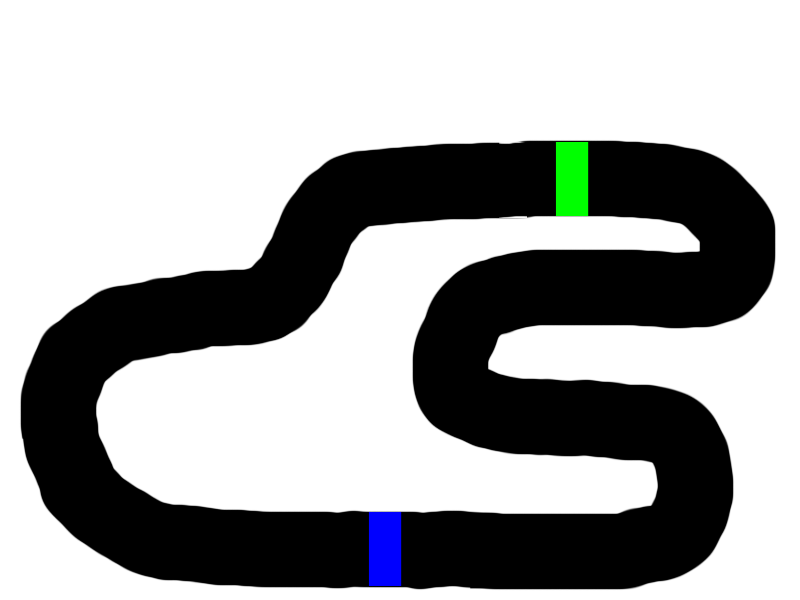
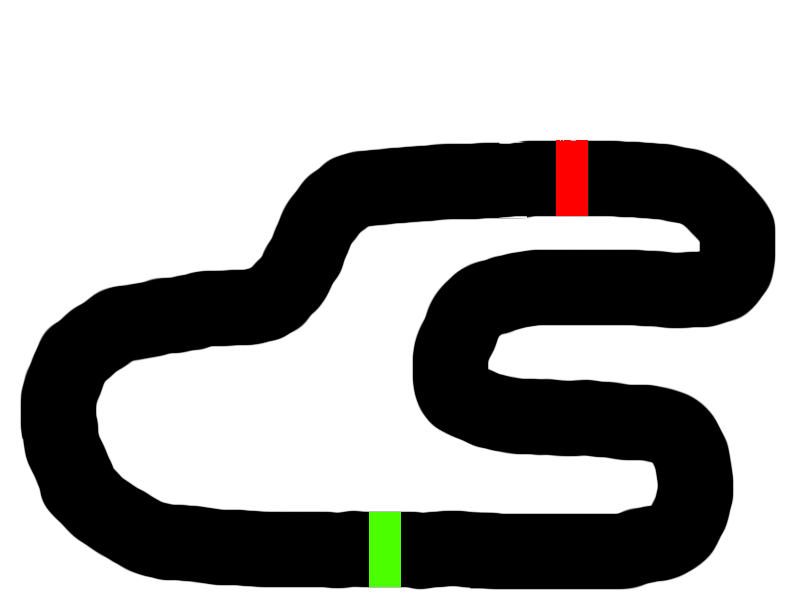
Removed bad map and updateded one map that had the wrong colors, also shrinked a car image.

Changed region(s): [[0.6875, 0.21, 0.75, 0.36], [0.4375, 0.84, 0.5, 0.99]]

diff --git a/src/RaceGame/RaceGame/RaceGame/RaceGame.cs b/src/RaceGame/RaceGame/RaceGame/RaceGame.cs
@@ -27,7 +27,7 @@ namespace RaceGame
         private Keys _menuKey;
         private Menu _menu;
 
-        private const int NR_OF_MAPS = 5;
+        private const int NR_OF_MAPS = 4;
         private const int NR_OF_CARS = 5;
         private const int NR_OF_PAUSE_BUTTONS = 3;
         private const int MAP_INDEX = 0;
@@ -50,7 +50,6 @@ namespace RaceGame
             graphics.PreferredBackBufferWidth = 800;
             graphics.PreferredBackBufferHeight = 600;
 
-            //graphics.IsFullScreen = true;
             graphics.IsFullScreen = false;
 
         }
@@ -98,21 +97,18 @@ namespace RaceGame
 
             mapCollisions[0] = Content.Load<Texture2D>("map1_collision");
             mapCollisions[1] = Content.Load<Texture2D>("map2_collision");
-            mapCollisions[2] = Content.Load<Texture2D>("map3_collision");
-            mapCollisions[3] = Content.Load<Texture2D>("map4_collision");
-            mapCollisions[4] = Content.Load<Texture2D>("map6_collision");
+            mapCollisions[2] = Content.Load<Texture2D>("map4_collision");
+            mapCollisions[3] = Content.Load<Texture2D>("map6_collision");
 
             mapBackgrounds[0] = Content.Load<Texture2D>("map1_background");
             mapBackgrounds[1] = Content.Load<Texture2D>("map2_background");
-            mapBackgrounds[2] = Content.Load<Texture2D>("map3_background");
-            mapBackgrounds[3] = Content.Load<Texture2D>("map4_background");
-            mapBackgrounds[4] = Content.Load<Texture2D>("map6_background");
+            mapBackgrounds[2] = Content.Load<Texture2D>("map4_background");
+            mapBackgrounds[3] = Content.Load<Texture2D>("map6_background");
 
             mapForegrounds[0] = Content.Load<Texture2D>("map1_foreground1");
             mapForegrounds[1] = Content.Load<Texture2D>("default_foreground");
             mapForegrounds[2] = Content.Load<Texture2D>("default_foreground");
             mapForegrounds[3] = Content.Load<Texture2D>("default_foreground");
-            mapForegrounds[4] = Content.Load<Texture2D>("default_foreground");
 
             for (int i = 0; i < bitmaps.Length; i++)
             {
